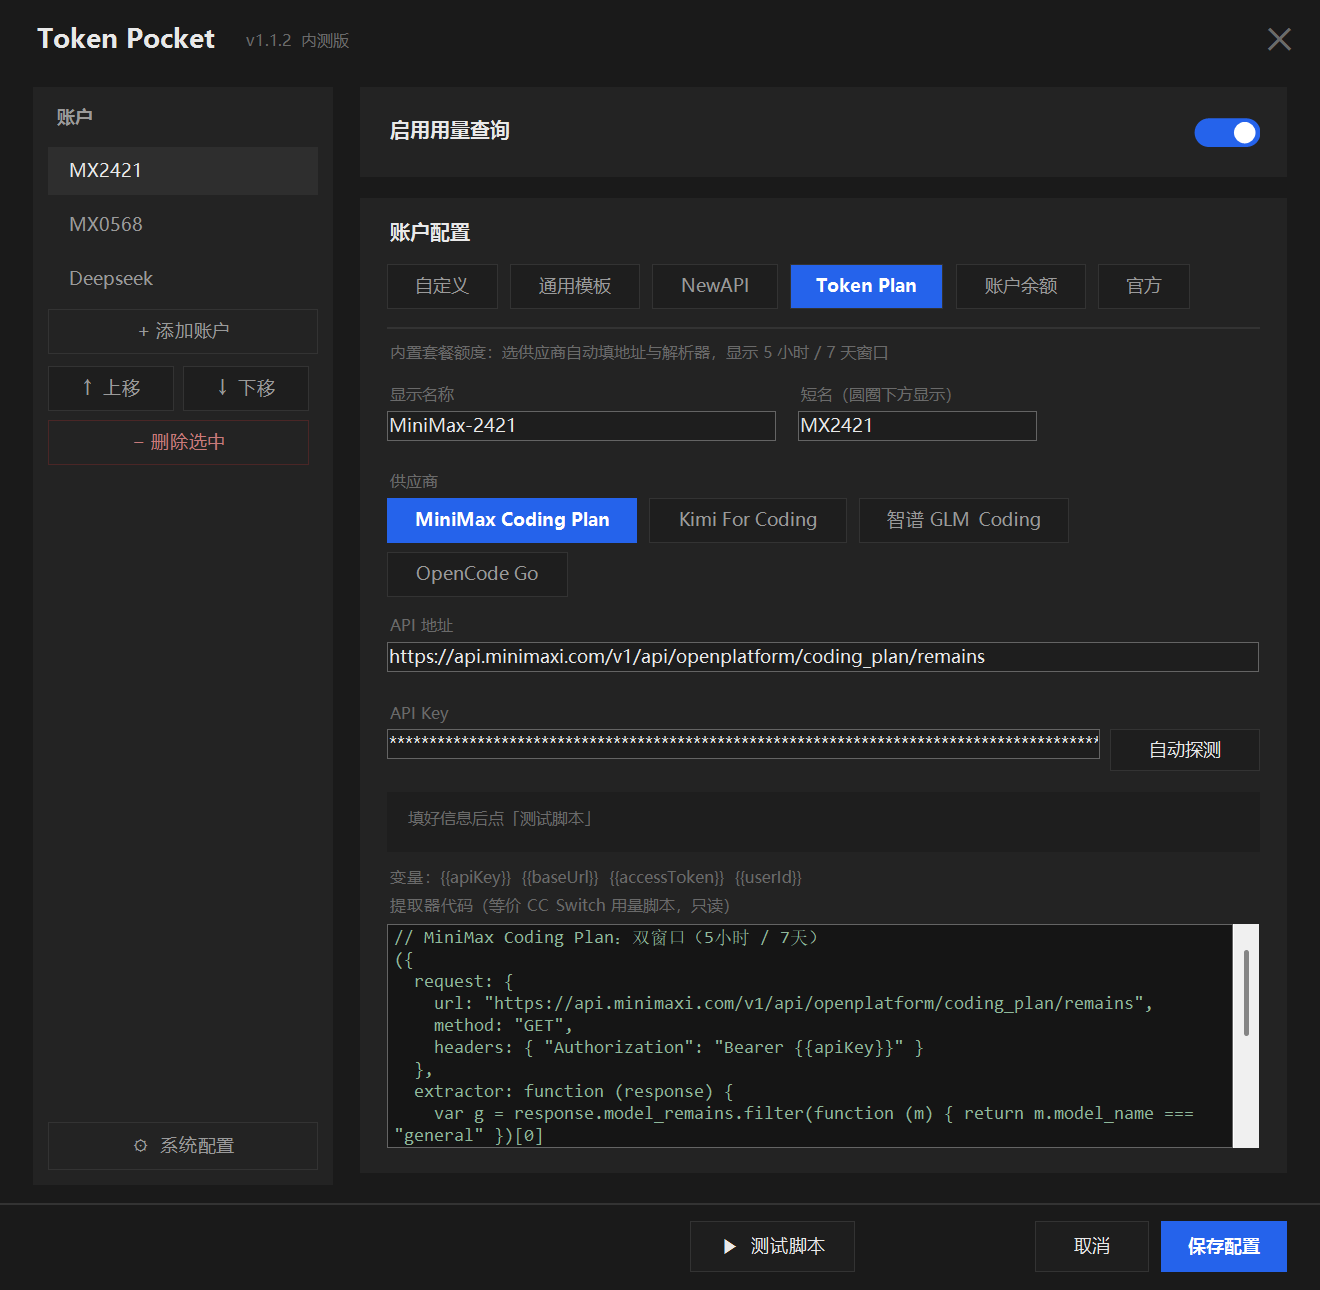
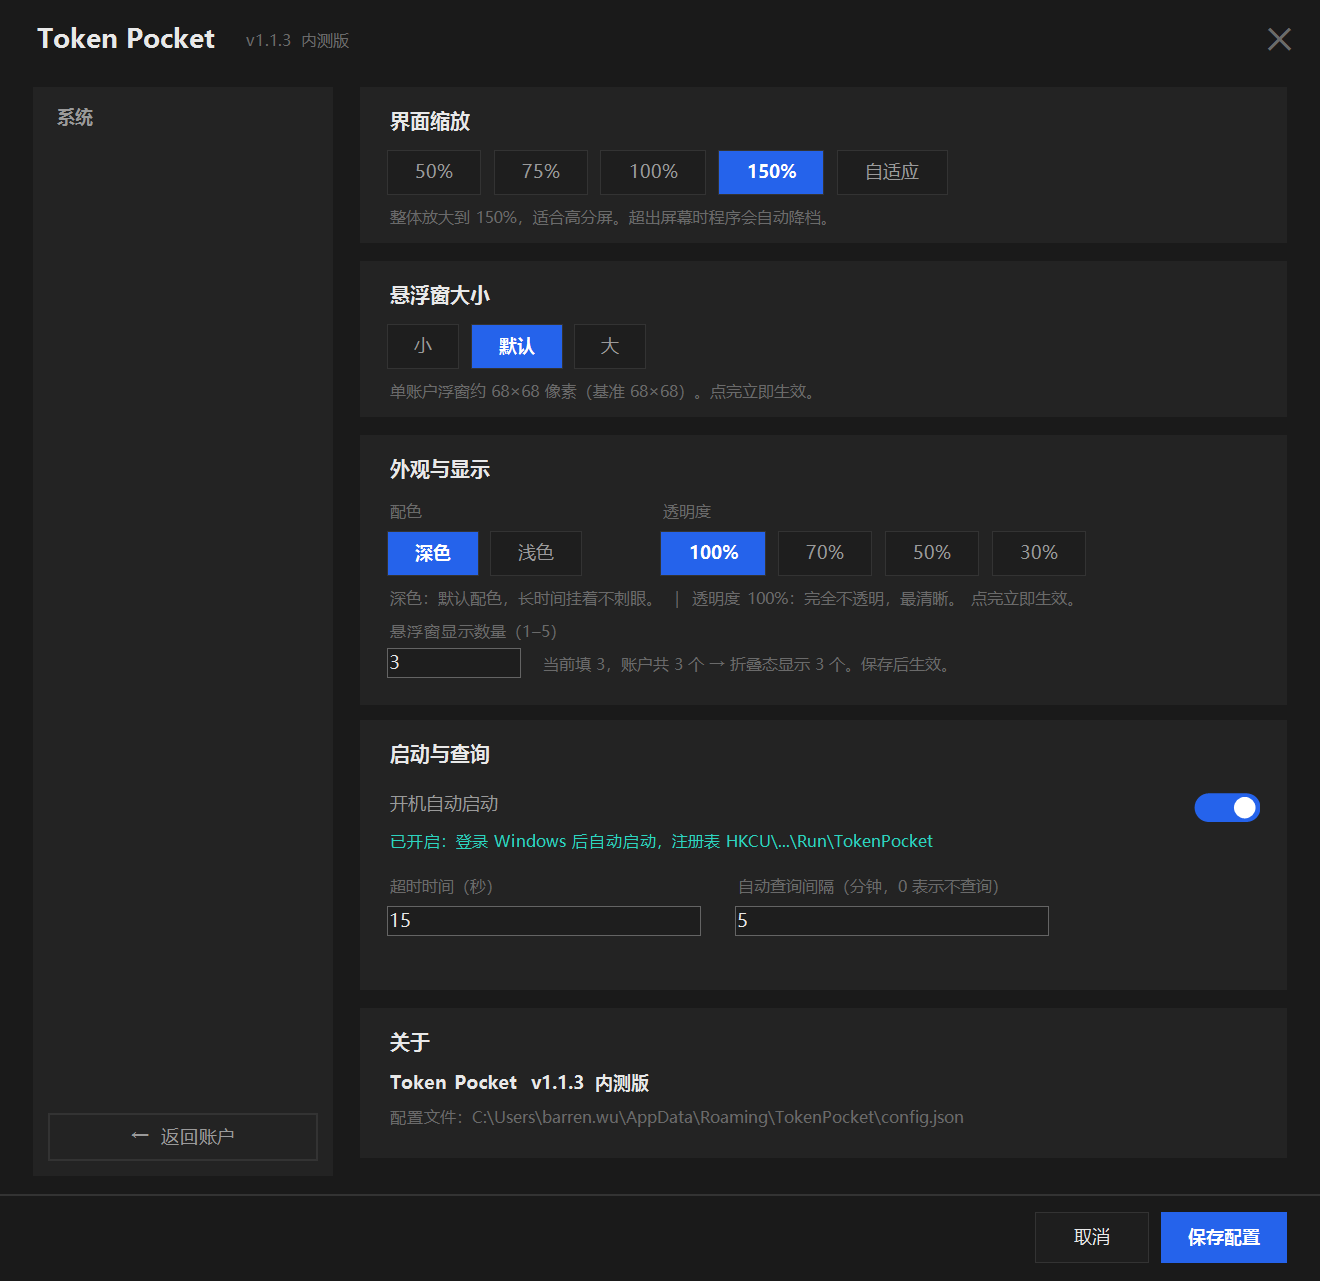
feat: 折叠态改 68×68、贴边圆角、纵排 150px 门槛、透明度四档 (v1.1.3)
用户提出的 4 项外观优化，逐项实现并加了量化断言。

1) 折叠态单元 89→68（单账户）
   - 内部重新配平：上边距 7 + 圆环 40 + 间距 3 + 标签 11 + 下边距 7 = 68
     （89 时代的 12/52/4/12 加起来 80，塞不进 68，不能等比缩）
   - 圆环半径 26→20；数字字号 14→16（+14%），三位数 11→12
   - 小档（51px）隐藏账户名：标签只剩约 6px，糊成一团不如不画（用户选方案 B）
     不画标签时圆环垂直居中，避免偏上留白
   - -SelfTest 新增量化断言：三档填充率稳定 78%（宽/内径），100% 三位数也不溢出

2) 贴边保持四角圆角
   - 根因：Update-WindowRegion 主动把贴边那侧半径置 0，删掉该逻辑
   - 验证改用 Region.IsVisible(角落点)：圆角时角落不在区域内，比看图可靠

3) 纵排加「离任务栏 ≥150 物理像素」门槛
   - 旧逻辑贴左右边就纵排，导致右下角（最常见位置）竖起来挡视线
   - 150 是物理像素，不做 S() 换算；贴底时距离为 0 自然横排
   - -GeomTest 断言边界：149 横排 / 151 纵排

4) 透明度 100 / 70 / 50 / 30，放在「外观与显示」的配色右边
   - Form.Opacity 实现，只作用于主悬浮窗，设置窗口始终不透明
   - config.opacity + Repair-Config 向最近档位吸附
   - 点即生效、取消回滚、重启恢复三条链路都有断言
   - 排版连带：卡片 S3 高 152→180、S4→480、S5→672、SYS_H 826→854

顺手修正
- Update-SystemHints 里写死的「基准 89×89」改为读 $DOCK_W
- HANDOFF 里 6 处旧尺寸描述同步更新，补 §17 记录本轮配平公式与新坑

验证基线（全绿）
- -SelfTest 文字溢出 9/9 + 颜色 10/10
- -GeomTest 31/31（含四角圆角、149/151 边界）
- -TestUI 24/24（含透明度落盘、取消回滚）
- test-templates 55/55、test-shape 6/6、-TestAutostart 通过

diff --git a/HANDOFF.md b/HANDOFF.md
@@ -1,7 +1,7 @@
 # Token Pocket — 项目交接文档
 
 > 面向接手本项目的 Agent。读完这份文档，你应该能直接改代码、验证、交付，不需要重新摸索。
-> 最后更新：2026-10-29 19:20 ｜ 版本 v1.1.2 内测版 ｜ 文档作者：上一手 Agent
+> 最后更新：2026-10-30 11:30 ｜ 版本 v1.1.3 内测版 ｜ 文档作者：上一手 Agent
 
 ---
 
@@ -416,8 +416,8 @@ powershell.exe -NoProfile -WindowStyle Hidden -ExecutionPolicy Bypass -File "D:\
 
 | 吸附边 | 排布 | 尺寸 |
 |---|---|---|
-| 无 / 上 / 下 | 横排 `h` | `DS(89 × n)` × `DS(89)` |
-| 左 / 右 | 纵排 `v` | `DS(89)` × `DS(89 × n)` |
+| 无 / 上 / 下 | 横排 `h` | `DS(68 × n)` × `DS(68)` |
+| 左 / 右（且离任务栏 ≥150 物理像素） | 纵排 `v` | `DS(68)` × `DS(68 × n)` |
 
 - **吸附阈值** `S 24`：离工作区边 < 24 物理像素就贴上去，横竖两个轴独立判断（角落里会同时贴两条边）
 - **方向只在真的贴上竖边时切换**。曾经试过「离竖边 150px 内就提前竖起来」，结果默认位置（差 120px）
@@ -471,13 +471,13 @@ powershell.exe -NoProfile -WindowStyle Hidden -ExecutionPolicy Bypass -File "D:\
 
 见 §5.3 表格。判断标准：`401/403` = 端点存在需鉴权；`200` = 存在；`404` = 地址错；`400` = 语义不明。
 
-### 6.2 尺寸实测（150% DPI，2 账户）
+### 6.2 尺寸实测（150% DPI，3 账户横排，v1.1.3）
 
 | 悬浮大小 | 系数 | 物理像素 | 逻辑像素 |
 |---|---|---|---|
-| 小 | 0.75 | 200×100 | 67×67 |
-| 默认 | 1.0 | 267×134 | 89×89 |
-| 大 | 1.25 | 334×167 | 111×111 |
+| 小 | 0.75 | 230×76 | 153×51 |
+| 默认 | 1.0 | 306×102 | 204×68 |
+| 大 | 1.25 | 382×128 | 255×85 |
 
 配置页：基准 880×658，150% → 1320×987，75% → 660×494。
 
@@ -743,9 +743,9 @@ Inner       # → 子窗   ← 读到的是调用方的局部变量
 
 **改法**（细节见 §5.7）：
 - 吸附阈值 20 → **24**，横竖两轴独立判断，角落里两条边一起贴
-- 贴左右边 → **纵排**（`DS 89` 宽 × n 行）；贴上下边或无吸附 → 横排
+- 贴左右边 → **纵排**（`DS 68` 宽 × n 行，v1.1.3 起还需离任务栏 ≥150 物理像素）；贴上下边或无吸附 → 横排
 - 锚点跟着吸附边走：贴左固定左边缘**并贴齐**，不再从边上弹开
-- 贴边侧圆角削平（`New-RoundedPathEx` 四角半径独立）
+- 贴边侧圆角削平（**v1.1.3 已改为四角始终圆角**，见 §17.3）
 - 新增 `$script:UserMoving` 守卫，程序自身位移不再触发吸附/落盘（§7.16）
 
 **验证**：`-GeomTest` 前三组（贴右→纵排 134×400 且贴齐；贴底→横排 400×134 且贴齐；中间→不吸附）。
@@ -878,9 +878,10 @@ PowerShell 函数查变量是动态作用域——找「调用方」的局部变
 
 - 主面板配色：`TokenPanel.ps1:101` 的 `$Theme`
 - 配置页配色：`ConfigWindow.ps1:12` 的 `$CW`
-- 折叠态单元尺寸：`TokenPanel.ps1:177` 的 `$DOCK_W` / `$DOCK_H`（逻辑像素，89）
+- 折叠态单元尺寸：`TokenPanel.ps1` 约 267 行的 `$DOCK_W` / `$DOCK_H`（逻辑像素，**68**）
 - 展开态宽度：`TokenPanel.ps1:179` 的 `$PANEL_W`（340）
-- 贴边吸附距离：`TokenPanel.ps1:698` 的 `$snap = S 20`
+- 贴边吸附距离：`Update-DockGeometry` 里的 `$snap = S 24`
+- 纵排门槛：同函数里的 `$distToBottom -ge 150`（物理像素）
 - DPI 缩放取值：`TokenPanel.ps1:587`（**只在启动时取一次，这是 §8.3 的根因**）
 
 **改完必须重跑 `-Shot` 和 `-ConfigShot` 看截图**，不能只看代码。
@@ -915,9 +916,9 @@ PowerShell 函数查变量是动态作用域——找「调用方」的局部变
 | v1.1.0 | 10-29 17:45 | 修完第一轮 6 条：缩放实时重建、浮窗实时预览、跨 DPI 自适应、提取器代码+变量、余额金额与负数红色、贴边吸附+靠边纵排；新增 `-GeomTest / -TestScale / -ForceOrient` |
 | v1.1.1 | 10-29 18:40 | 修完第二轮 6 条：余额改圆环、修 PowerShell 动态作用域导致的「设置页被压扁」、账户余额改名、手动排序+显示数量、深浅双配色、字体授权确认；新增 `-TestRescaleLive / -ForceTheme` |
 | **v1.1.2** | 10-29 19:20 | 折叠态圆环改为显示 5 小时额度（不再取两窗口最大值）；双击刷新动效（旋转光弧 + 数字跳动 + 1 秒后拉新数据）；`-TestUI` 不再把 dockScale/uiScale/theme 写进用户配置；新增 `-Shot -Anim` |
-| **v1.1.0** | 10-29 17:45 | **修完用户 6 条问题**：缩放实时重建、浮窗实时预览、跨 DPI 自适应、提取器代码+变量、余额金额与负数红色、贴边吸附+靠边纵排；新增 `-GeomTest / -TestScale / -ForceOrient` |
+| **v1.1.3** | 10-30 11:30 | 折叠态单元 89→**68**、数字字号 14→16、小档隐藏账户名；贴边保持四角圆角（删掉置零逻辑）；纵排加「离任务栏 ≥150 **物理**像素」门槛；新增透明度 100/70/50/30 |
 
-**版本号规则**：以后每次改动递增，只改 `lib/QuotaCore.ps1` 顶部的 `$script:AppVersion` 一行。当前 `1.1.1`。
+**版本号规则**：以后每次改动递增，只改 `lib/QuotaCore.ps1` 顶部的 `$script:AppVersion` 一行。当前 `1.1.3`。
 
 ---
 
@@ -1189,3 +1190,99 @@ git status                           # 当前状态
 - 代价：目录里的 3 个 .ps1 是源码副本，会与 `lib/` 漂移
 
 **规则**：`release/` 只在发版时更新，**永远不要直接改 release 里的 .ps1**。改源码 → 重新打包 → 再提交。发现两者不一致时，以根目录源码为准。
+
+---
+
+## 17. 折叠态尺寸与外观（v1.1.3）
+
+### 17.1 68×68 单元的内部配平（不能等比缩）
+
+89 → 68 不是乘以 0.76 就完事：89 时代的 `上边距 12 / 圆环 52 / 间距 4 / 标签 12` 加起来 80，塞不进 68。必须重新配平：
+
+```
+上边距 7 + 圆环 40 + 环下间距 3 + 标签 11 + 下边距 7 = 68
+```
+
+常量集中在 `TokenPanel.ps1` 约 267 行：`$DOCK_W/$DOCK_H = 68`、`$RING_R = 20`、`$DOCK_PAD_TOP = 7`、`$DOCK_RING_GAP = 3`、`$DOCK_LBL_H = 11`、`$DOCK_LBL_MIN_SCALE = 0.9`。
+
+**字号**：`Draw-Ring` 里数字 14 → **16**（+14%），三位数（100）11 → 12。
+选 +14% 不是 +20%：40px 圆环的内径只有 32，再大就顶壁。`-SelfTest` 新增了量化断言，实测填充率：
+
+| 档位 | 「58%」宽 | 内径 | 填充率 |
+|---|---|---|---|
+| 小 51 | 18.8 | 24 | 78% |
+| 默认 68 | 25.0 | 32 | 78% |
+| 大 85 | 31.3 | 40 | 78% |
+
+78% 是刻意选的：低于 70% 显得飘，高于 85% 显得挤。
+
+### 17.2 小档隐藏账户名（用户选方案 B）
+
+`$DOCK_LBL_MIN_SCALE = 0.9` —— `DockScale < 0.9` 时不画标签。原因：51px 单元里标签只有约 6px 高，笔画糊成一团，不如不画。
+
+不画标签时圆环要**垂直居中**（`$cy = $oy + $unitH / 2`），否则会偏上留一大块空白。
+
+### 17.3 贴边保持四角圆角
+
+根因不是渲染，是 `Update-WindowRegion` 里**主动**把贴边那侧置 0：
+
+```powershell
+# 已删除的旧代码
+if ($script:SnapEdgeV -eq 'bottom') { $rbr = 0; $rbl = 0 }
+if ($script:SnapEdgeH -eq 'right')  { $rtr = 0; $rbr = 0 }
+```
+
+删掉后四角始终是 `DS 18`（折叠态）/ `S 18`（展开态）。贴边时角落会露出 1~2px 桌面，这是圆角的必然结果，用户要的就是这个效果。
+
+**验证方法（比看图可靠）**：`Region.IsVisible(Point)` —— 圆角时角落像素不在 Region 内，直角时在。`-GeomTest` 里的 `GT-Corners` 就是取四角内侧 2px 的点，断言 4 个都不在区域内。
+
+### 17.4 纵排的 150 物理像素门槛
+
+旧逻辑「贴左右边就纵排」会让右下角（最常见位置）竖起来挡视线。新逻辑：
+
+```powershell
+$distToBottom = $wa.Bottom - ($ny + $ch)
+$orient = 'h'
+if ($eH -ne 'none' -and $distToBottom -ge 150) { $orient = 'v' }
+```
+
+**150 是物理像素，不做 `S()` 换算**（用户明确指定）。150% 屏上视觉约 100 逻辑像素。
+
+贴住底部时距离为 0 → 自然横排。`-GeomTest` 断言边界：离底 149 → 横排、151 → 纵排。
+
+### 17.5 透明度四档（100 / 70 / 50 / 30）
+
+`Form.Opacity` 实现，只作用于主悬浮窗（设置窗口始终不透明，否则调 30% 时自己都看不清）。
+
+- 配置字段 `config.opacity`，`Repair-Config` 会把非档位值向最近档位吸附（防手改写坏）
+- `Preview-Opacity -V <double>` 定义在 `$script:MainForm = $form` 之后，因为它要引用 MainForm
+- 点 chip 立即生效；取消由 `Restore-DockPreview` 回滚；保存后重启由启动段恢复
+
+**UI 排版**：配色与透明度并排一行（配色 18~126，透明度 200~430），两句说明合成一行避免卡片撑高。
+连带调整：卡片 S3 高 152→180、S4 452→480、S5 644→672、`$SYS_H` 826→854。
+
+### 17.6 本轮新踩的坑
+
+1. **`PerformClick()` 要求控件可见** —— 它内部判断 `CanSelect`（可见 + 可用 + 父级可见）。在「账户页」点「系统页」的 chip 完全不触发，测试会误报成功能 bug。`-TestUI` 里点系统页控件前必须先 `Show-Page -Page 'system'`。
+2. **`TextBox.Text` 赋值不受可见性影响** —— 所以同一段测试里 timeout 断言能过、opacity 断言挂了，很容易误判。
+3. **`Repair-Config` 补的字段只在内存里** —— 老配置磁盘上没有 `opacity` 键，第一次保存后才写进去。写脚本改配置时必须先判断属性是否存在再赋值，否则 `$c.opacity = 0.5` 会抛 `property cannot be found`。
+4. **金额字号与圆环尺寸耦合** —— `Get-MoneyFontPx` 返回 14/11/9，是按 52px 圆环调的。68 时代圆环只有 40，`¥-0.49`（6 字符）走 11px 仍能放下，但再加长就会贴边，靠 `EndEllipsis` 兜底。改圆环半径时要一并复核这个函数。
+
+### 17.7 本轮验证基线
+
+```
+-SelfTest       文字溢出 9/9  +  颜色逻辑 10/10
+-GeomTest       31/31（含贴边四角圆角、149/151 边界）
+-TestUI         24/24（含透明度落盘、取消回滚）
+test-templates  55/55
+test-shape      6/6
+-TestAutostart  读写双向一致
+```
+
+三档实测物理尺寸（150% DPI，3 账户横排）：
+
+| 档位 | 系数 | 窗口物理 | 逻辑 |
+|---|---|---|---|
+| 小 | 0.75 | 230×76 | 153×51 |
+| 默认 | 1.0 | 306×102 | 204×68 |
+| 大 | 1.25 | 382×128 | 255×85 |
